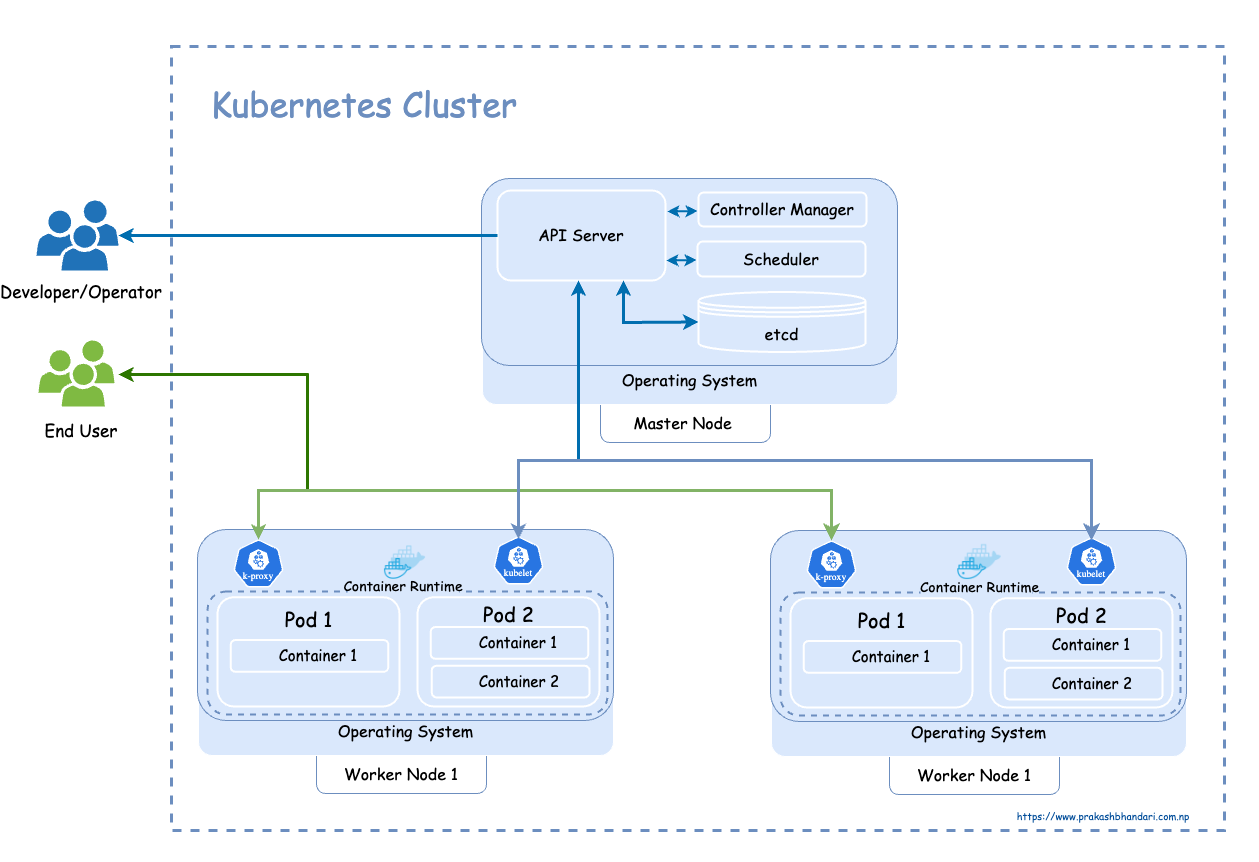
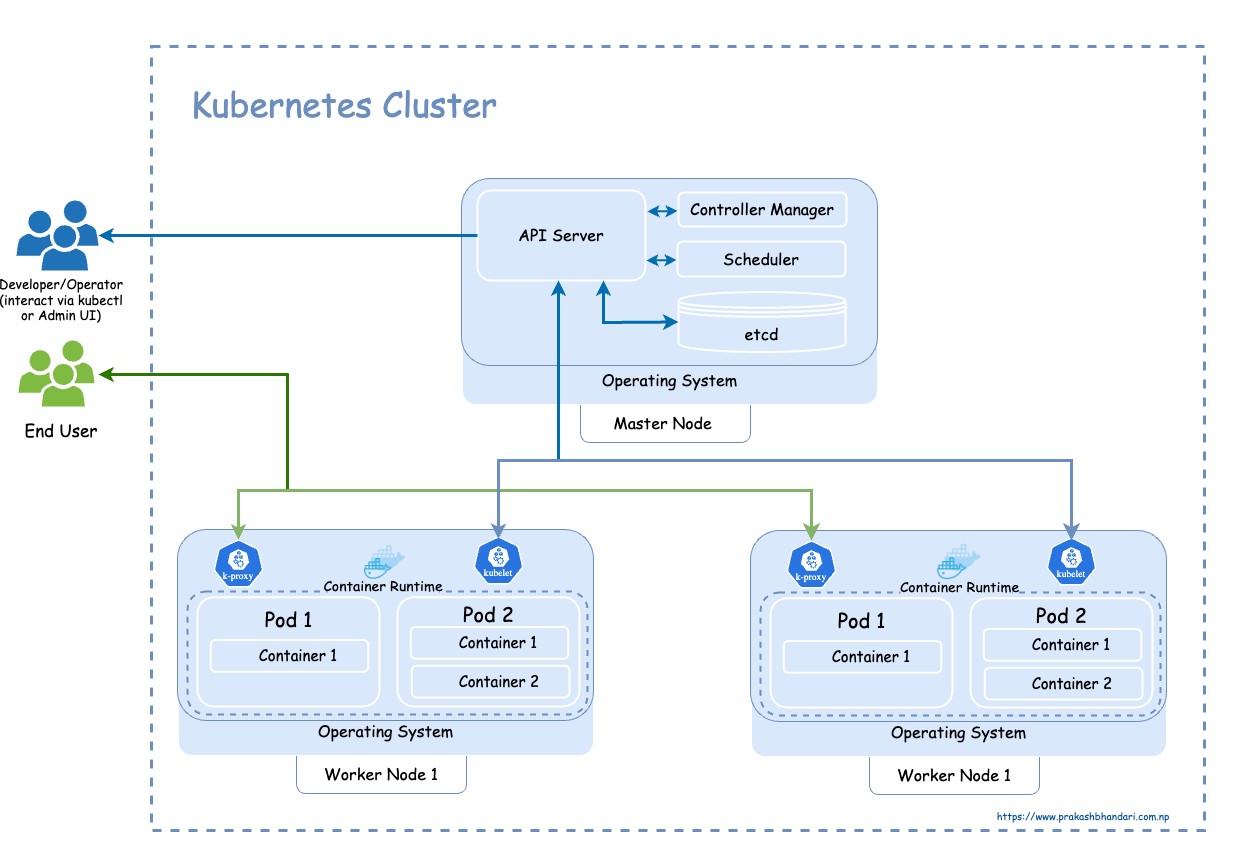
update k8s doc

diff --git a/content/posts/understanding-the-basic-concepts-of-kubernetes-cluster.md b/content/posts/understanding-the-basic-concepts-of-kubernetes-cluster.md
@@ -67,10 +67,13 @@ It maintains the overall state of the cluster, coordinating tasks such as schedu
 
 For example, if one worker node fails, the master node moves the workload to another healthy worker node.
 
-And also master node exposes the API to the developer or operator via cli tool (kubectl) or UI.
+And also master node exposes the API to the developer or operator via cli tool (kubectl) or admin UI.
 
 At least one master node is required in a Kubernetes (k8s) cluster, but in reality, 
 there can be more than one master node for high availability and fault tolerance.
+In a nutshell, high availability and fault tolerance means the system or network which has minimum the downtime.
+
+It is always suggested to add redundancy to the master node. If one master node goes down another will automatically come up.
 
 ### Master Components
 When you install Kubernetes, the four components will be installed on the master node to manage and run the worker nodes.
